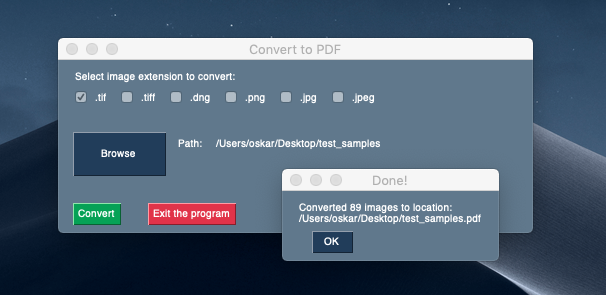
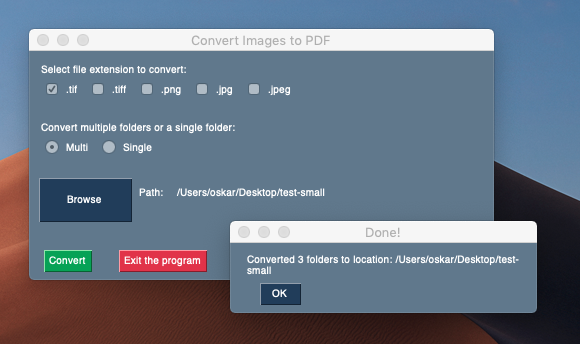
Updated image and readme

diff --git a/README.md b/README.md
@@ -1,7 +1,11 @@
-# Convert multiple images (.tif, .png, .jpg) to a single .pdf file
+# Convert multiple images (.tif, .png, .jpg) to a single PDF file
 
-## Easy to use GUI to browse for files and convert
+## Easy to use
 ![Example on OSX](img/example.png)
+
+## Multi and Single mode
+- Single mode converts a single directory of images to a single PDF
+- Multi mode allows to convert multiple directories in a row. Just select a path where you have many folders containing image files
 
 ## Installation
 ### To run convert_to_pdf.py you'll need
